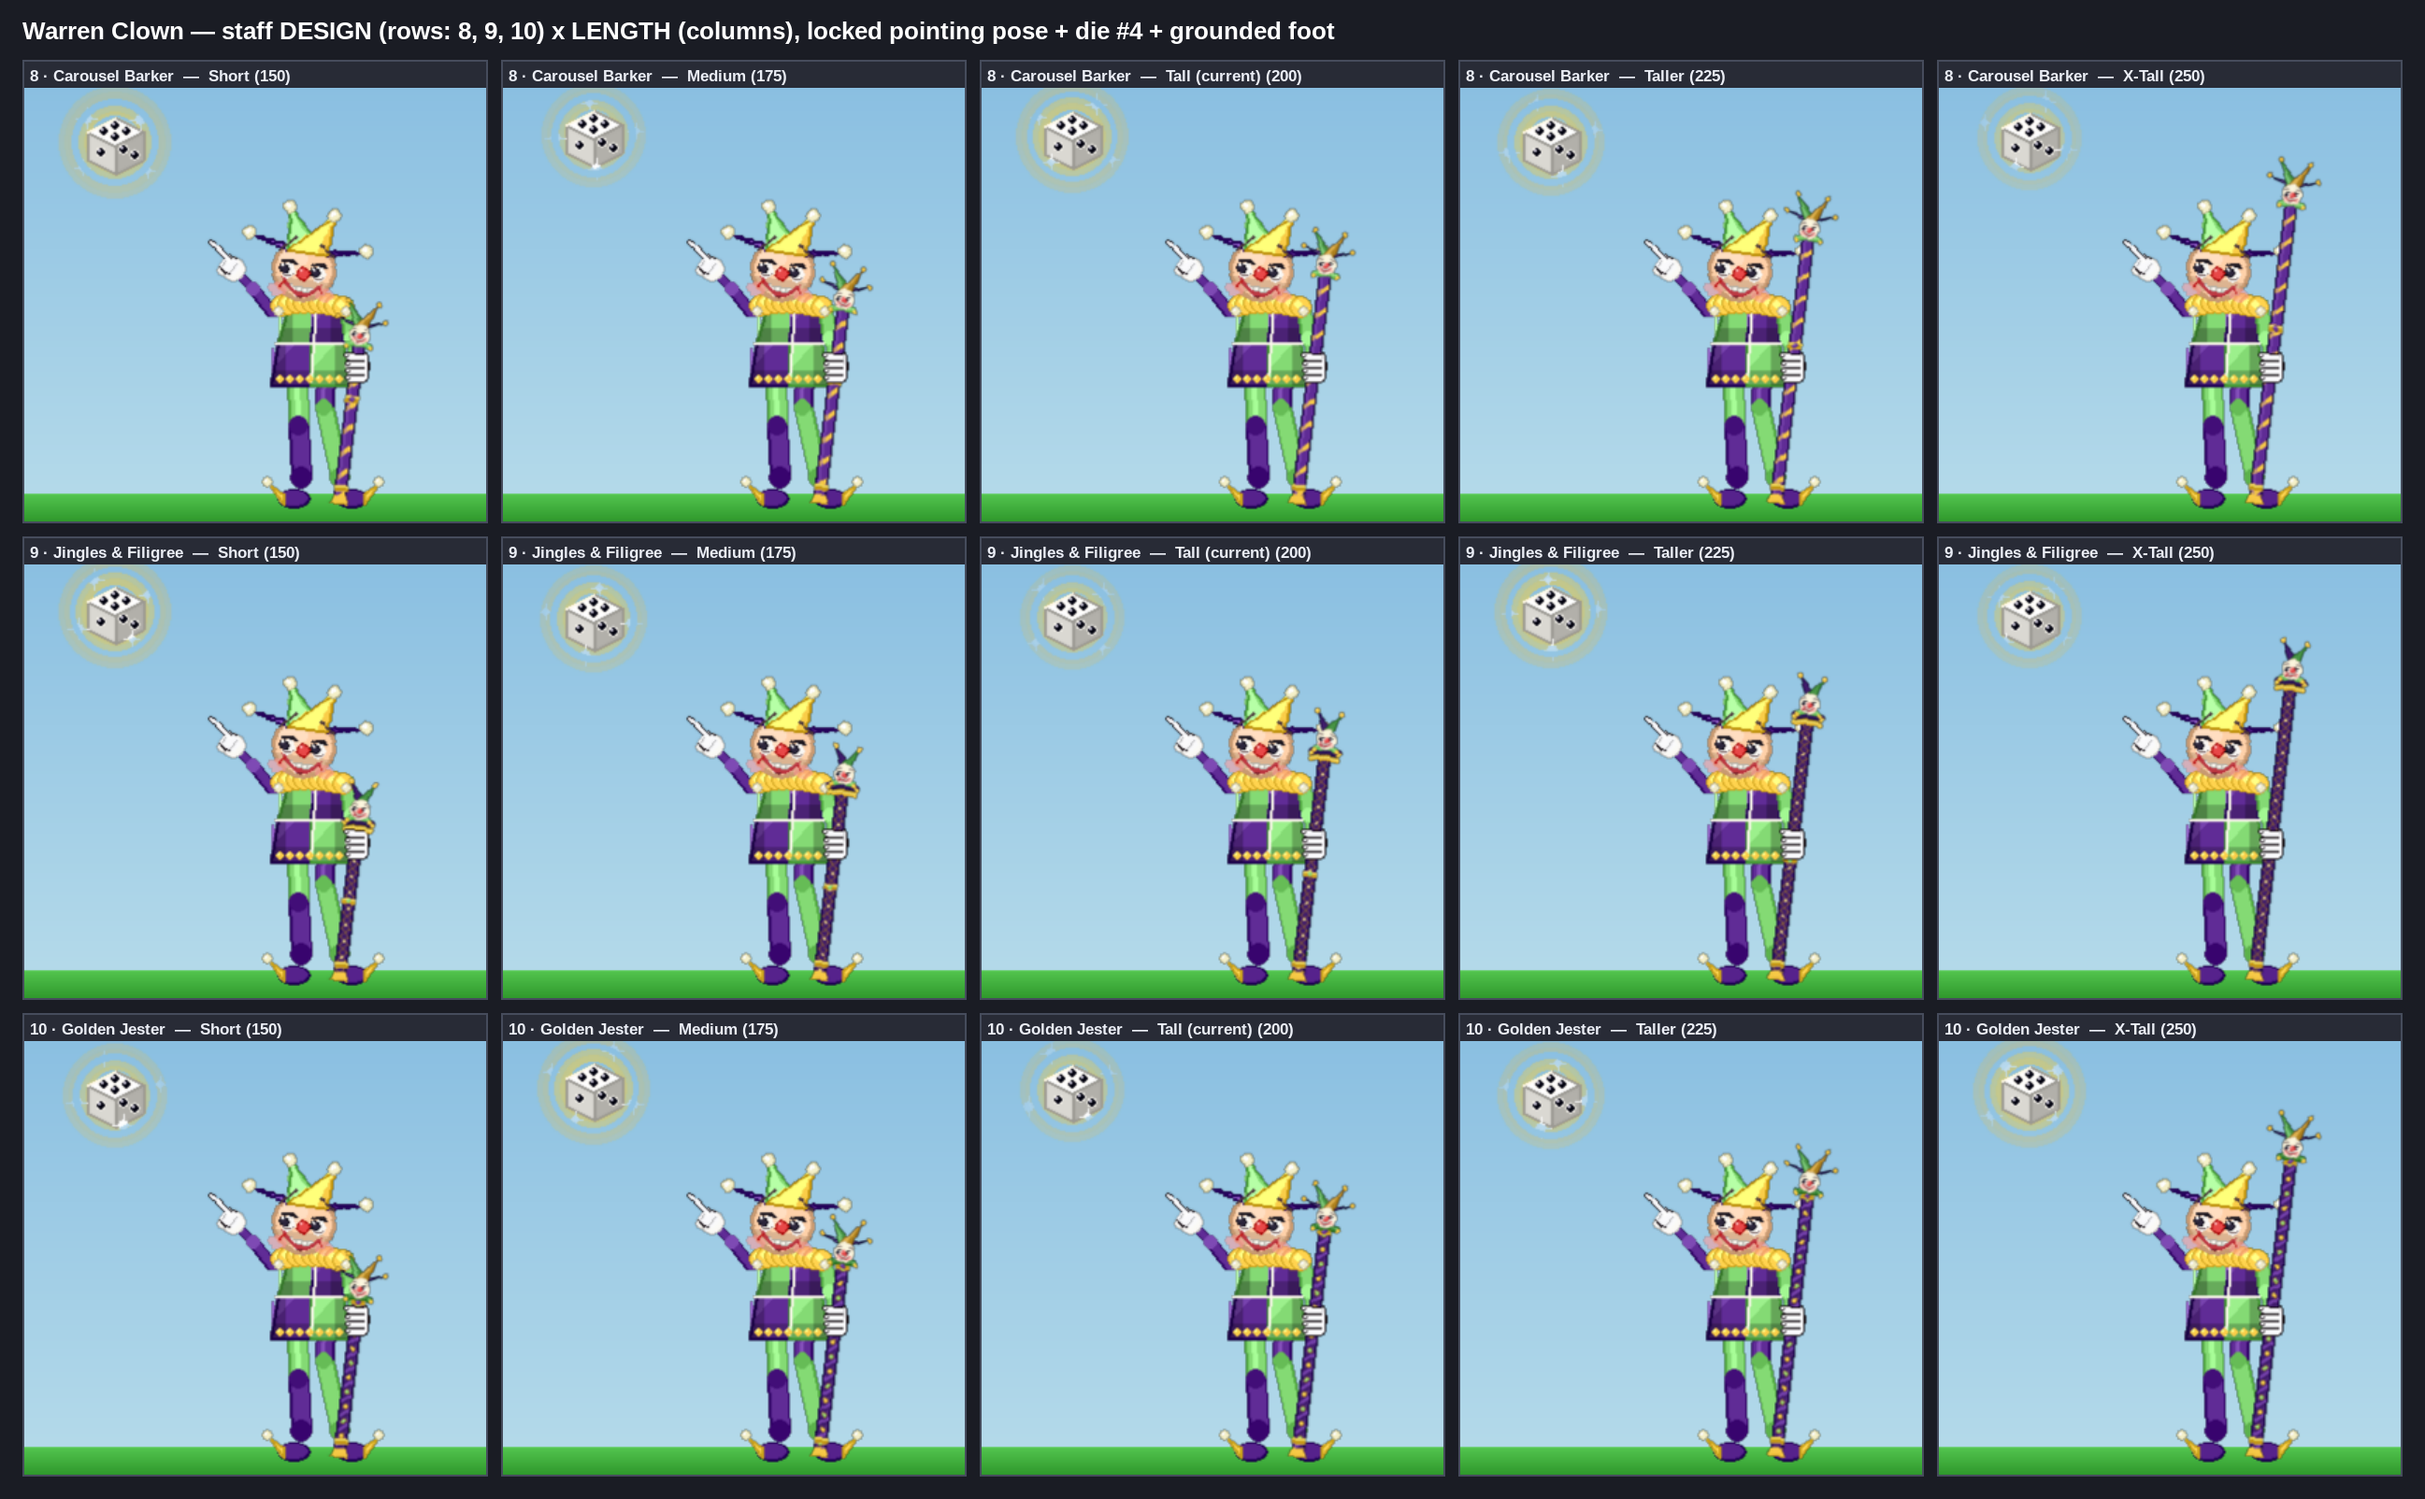
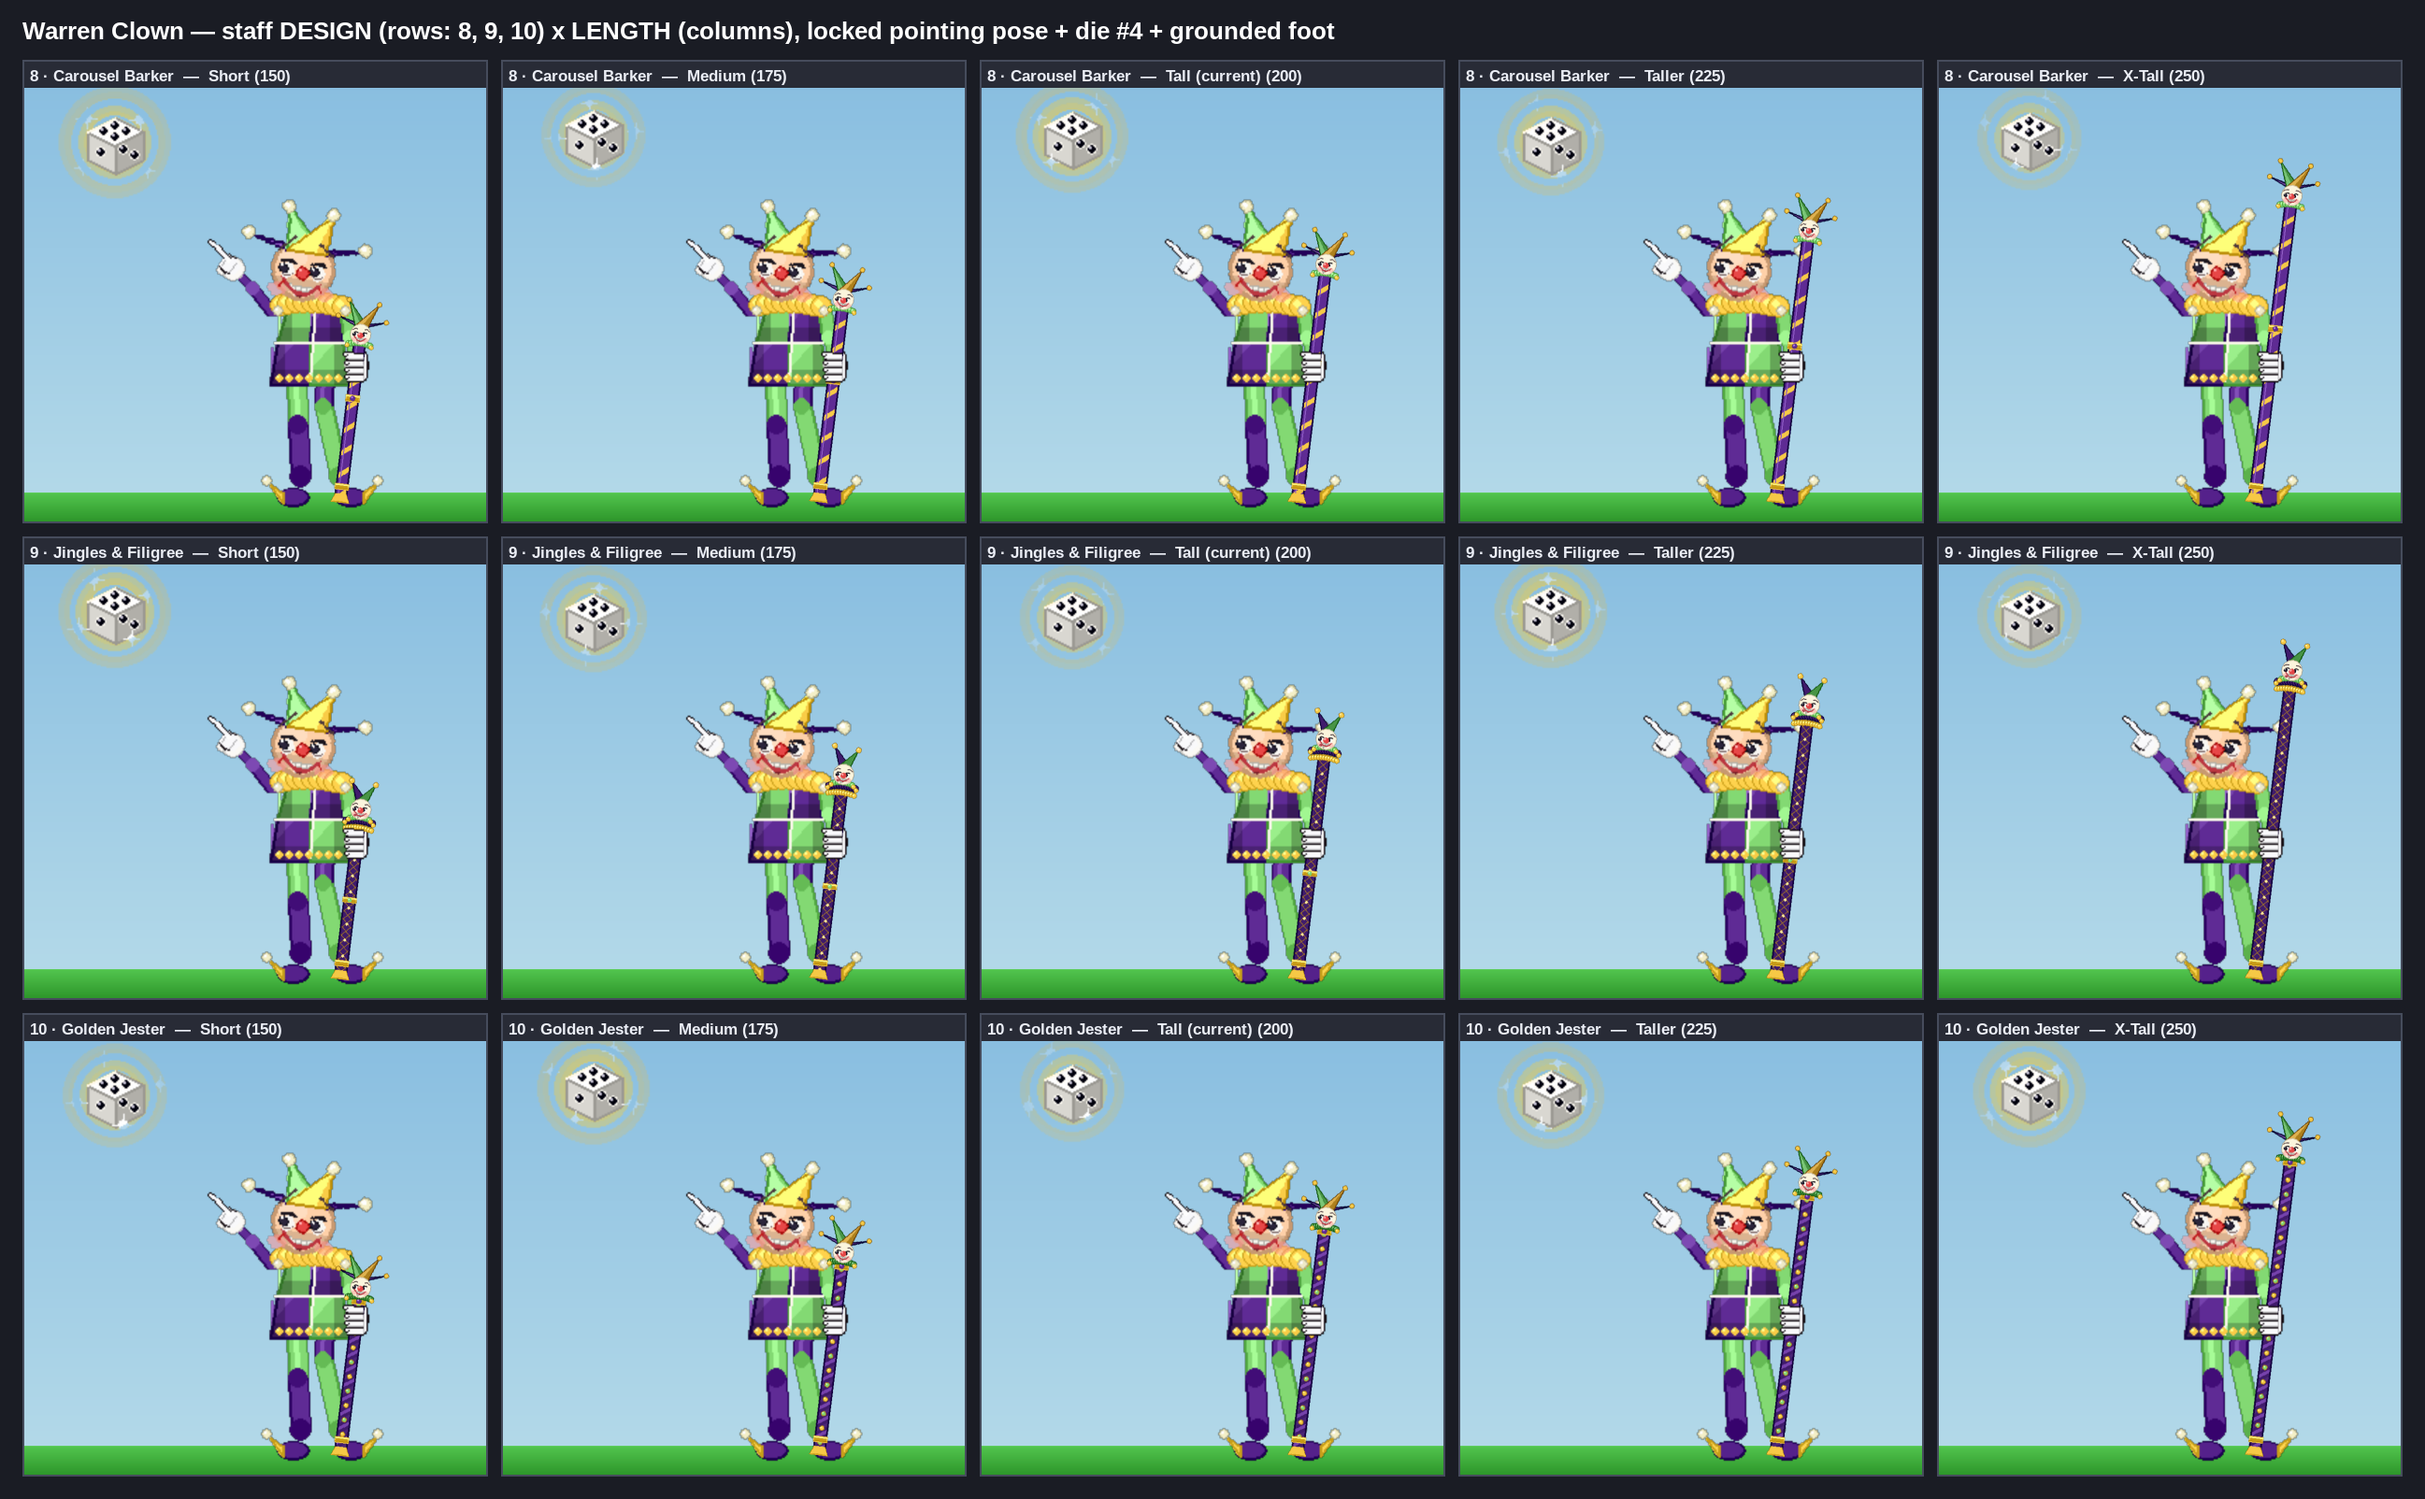
Render the hero staff at full supersample so its texture stays crisp
The thin marotte (shaft texture + mini-clown bauble face) was authored on
the 1x layer and softened to mush whenever a sheet scaled the figure up.
Render the staff + front grip at the higher supersample and composite onto
the high-res surface (body/open-hand stay on the 1x layer); return the
high-res figure so sheets downscale instead of upscale. Re-render the
design x length grid.

diff --git a/tools/render_warren_sword.py b/tools/render_warren_sword.py
@@ -8567,7 +8567,9 @@ def render_clown_staff_r17(idx, *, total_px, bauble_px, cup_dy, wrist,
     without running off the frame. All zero reproduces the original panel exactly."""
     spec = dict(JESTERS[-1][1])
     spec.pop("no_shadow", None)
-    ss = CLOWN_SS
+    ss = 3                                 # higher supersample so the staff texture
+                                           # + bauble face stay crisp when a sheet
+                                           # scales the figure up (was CLOWN_SS=2)
     palette = shaped_palette(DAY_PHASE)
     cw, ch = VIEW_W + ext_left + ext_right, VIEW_H + ext_top
     bw, bh = cw * ss, ch * ss
@@ -8625,17 +8627,29 @@ def render_clown_staff_r17(idx, *, total_px, bauble_px, cup_dy, wrist,
         return rx, ry
 
     grip_rx, grip_ry = _mapped(p_w / 2, p_h * grip_frac)
-    prop_ox = int(r_hand[0] - grip_rx)
-    prop_oy = int(r_hand[1] - grip_ry)
+    prop_ox = r_hand[0] - grip_rx
+    prop_oy = r_hand[1] - grip_ry
+    rhi = (int(r_hand[0]), int(r_hand[1]))
 
     shaft_w = 2
-    _r11_grip_glove(layer, (int(r_hand[0]), int(r_hand[1])), shaft_w, behind=True)
-    layer.blit(rotated, (prop_ox, prop_oy))
-    _r8_grip_occlusion(layer, (int(r_hand[0]), int(r_hand[1])), shaft_w)
-    _r11_grip_glove(layer, (int(r_hand[0]), int(r_hand[1])), shaft_w, behind=False)
-
+    # The thin staff carries the fine shaft texture + the mini-clown bauble face,
+    # so render it (and the front grip) at the FULL supersample resolution and
+    # composite onto `big` rather than the 1x layer — on the 1x layer the staff is
+    # only ~8px wide, and upscaling that in a sheet softens the texture + face to
+    # mush. The body/open-hand stay on the 1x layer (flat fills upscale cleanly).
+    _r11_grip_glove(layer, rhi, shaft_w, behind=True)
     big.blit(pygame.transform.smoothscale(layer, (bw, bh)), (0, 0))
-    return pygame.transform.smoothscale(big, (cw, ch))
+
+    prop_hi, _pw_hi, _ph_hi = _held_marotte_surface(total_px * ss, bauble_px * ss,
+                                                    draw_fn=staff_fn)
+    rotated_hi = pygame.transform.rotate(prop_hi, rot)
+    big.blit(rotated_hi, (int(round(prop_ox * ss)), int(round(prop_oy * ss))))
+
+    top = pygame.Surface((cw, ch), pygame.SRCALPHA)
+    _r8_grip_occlusion(top, rhi, shaft_w)
+    _r11_grip_glove(top, rhi, shaft_w, behind=False)
+    big.blit(pygame.transform.smoothscale(top, (bw, bh)), (0, 0))
+    return big
 
 
 def _render_die_hand_crop_r17(kw, *, crop_px=150, zoom=7):
